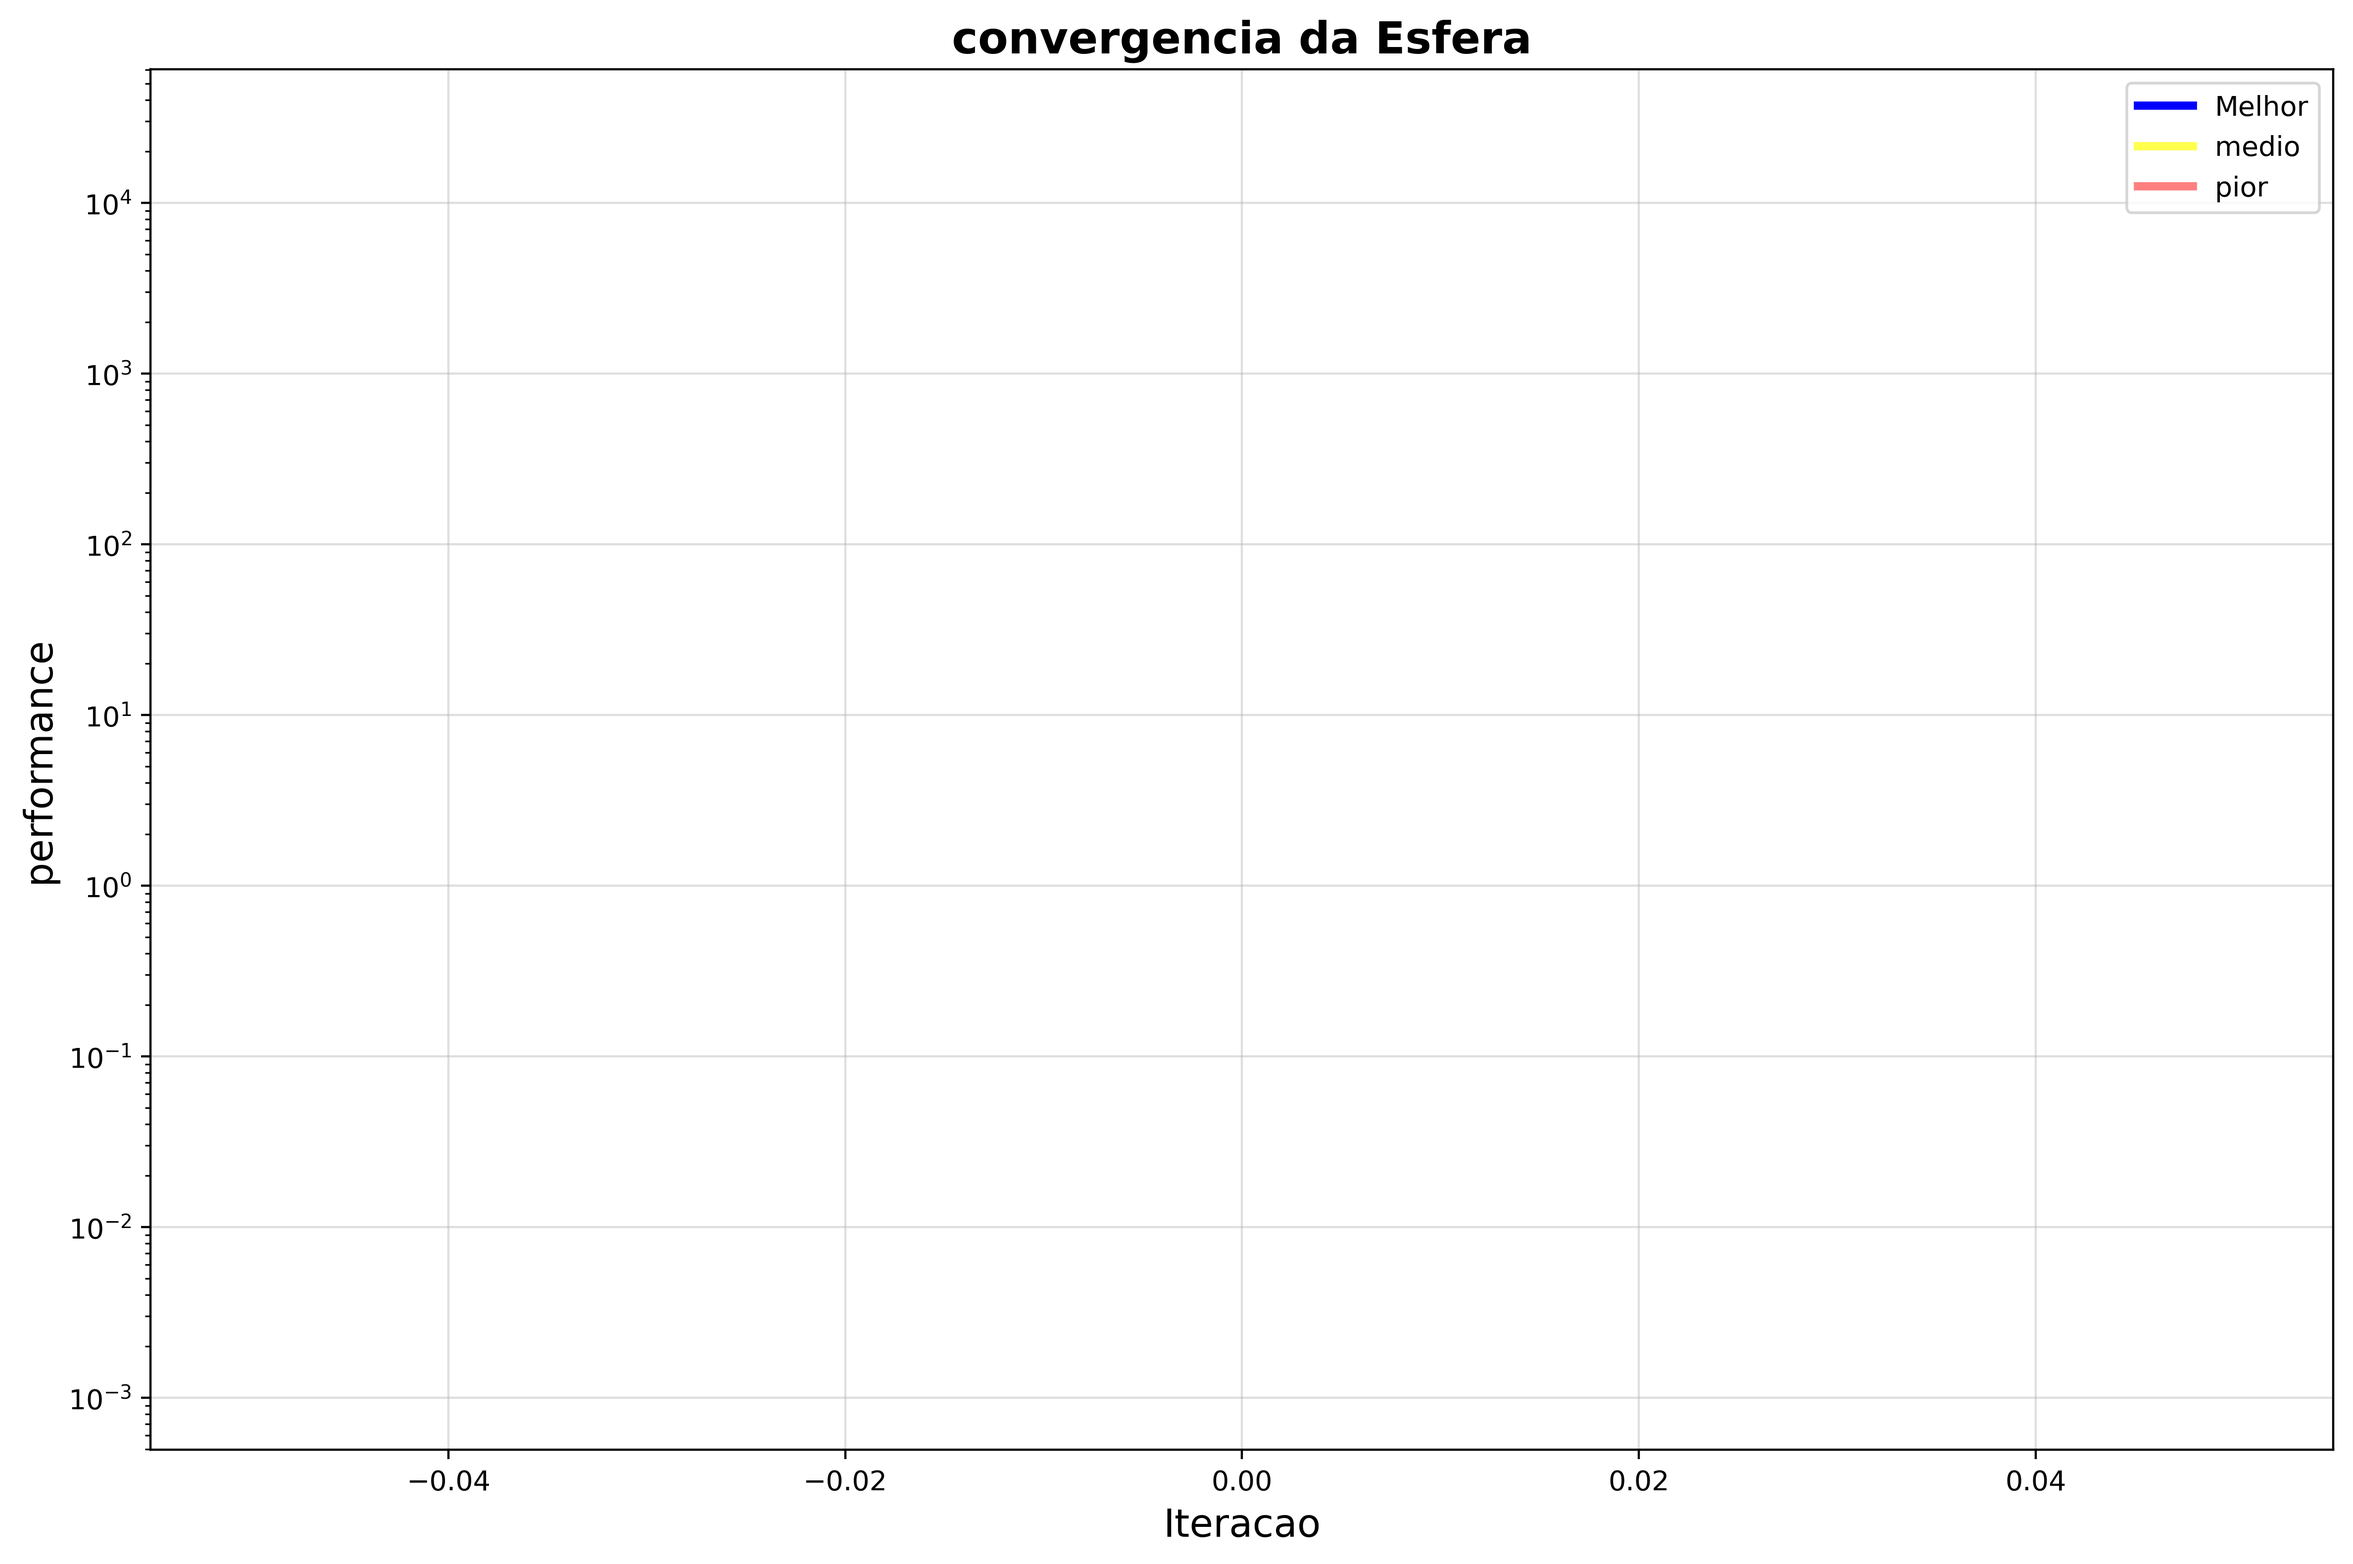
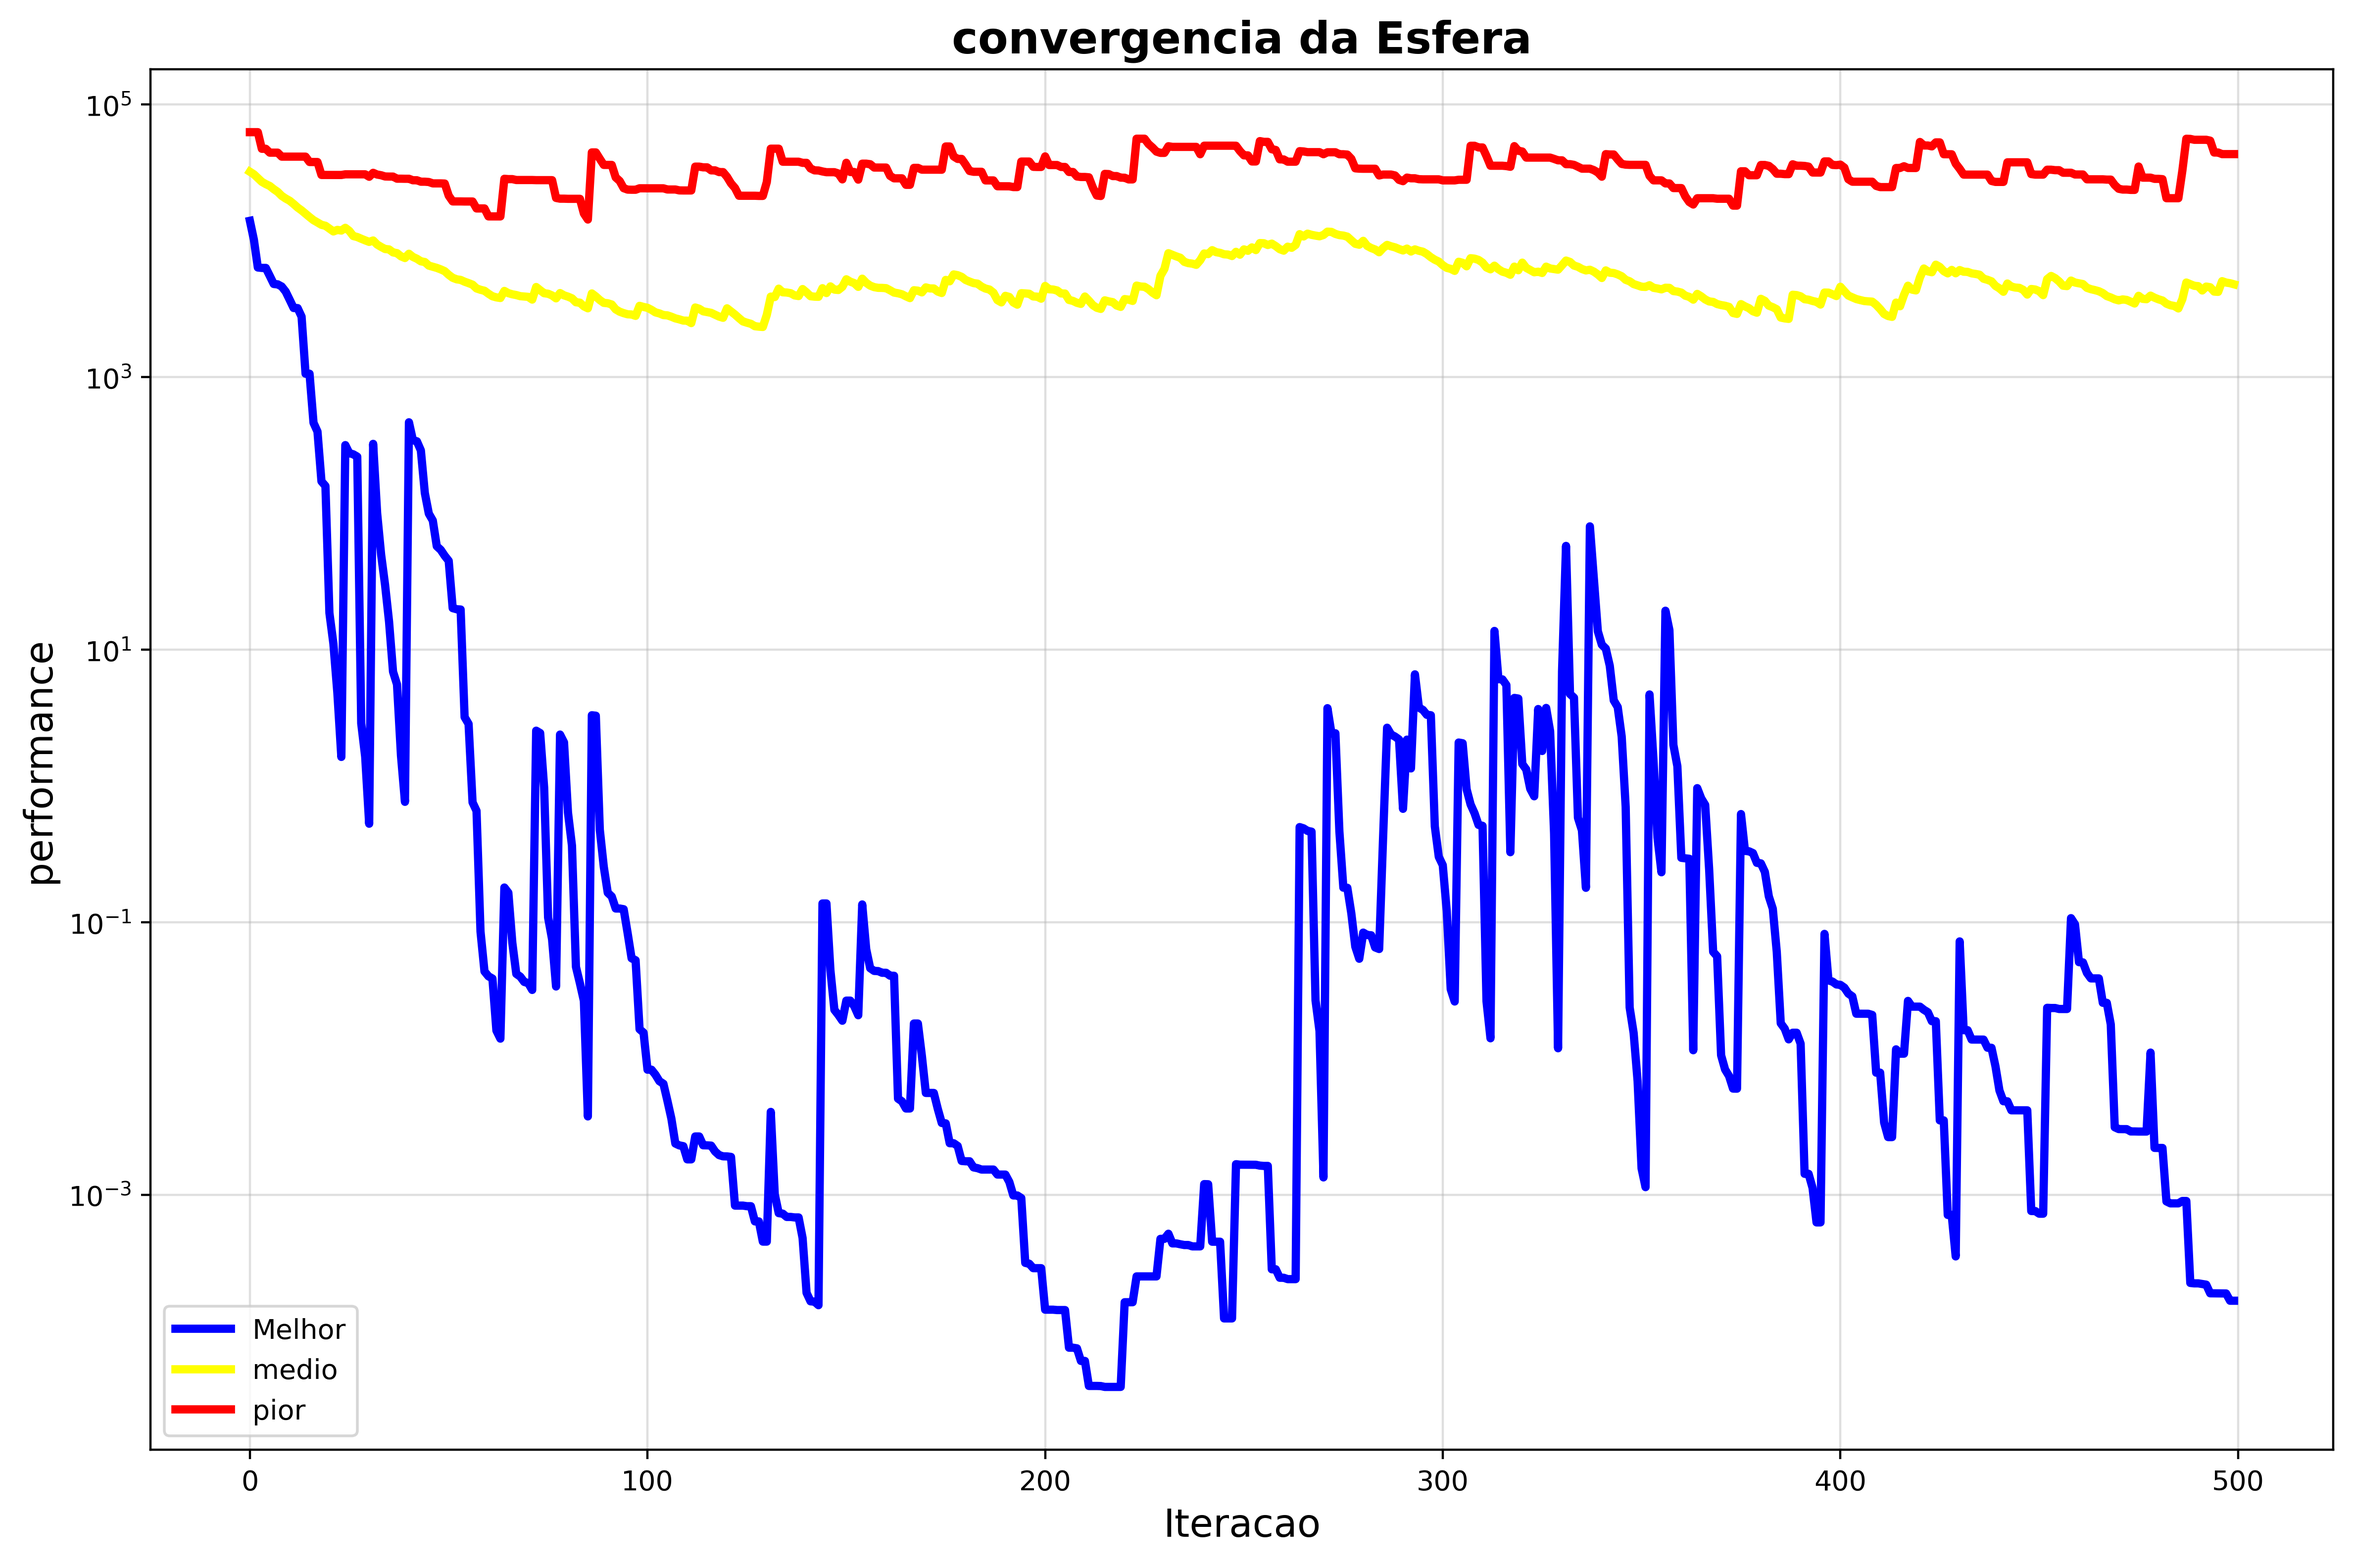
update graficos

diff --git a/src/ABC/controlador.py b/src/ABC/controlador.py
@@ -29,24 +29,24 @@ class AbcControlador:
 
         Melhor_Solucao=None
         for interacao in range(self.interacoes):
-           for i in range(self.operarias):
+            for i in range(self.operarias):
                self.operaria.explore(i)
 
-           valor = 1.0 / (1.0 +  self.valorEficiencia)
-           probabilidade = valor / np.sum(valor)
-           for i in range(self.observadoras):
+            valor = 1.0 / (1.0 +  self.valorEficiencia)
+            probabilidade = valor / np.sum(valor)
+            for i in range(self.observadoras):
                index = self.observadora.escolher_fontes(probabilidade)
                self.observadora.explore(index)
-           for i in range(self.operarias):
+            for i in range(self.operarias):
                if self.contadorInteacoesSemMelhoria[i] > self.Num_Falhas:
                    self.exploradora.atualiza(i)
            
-           Melhor_Solucao = np.argmin(self.valorEficiencia)
-           print(f"interacao {interacao} melhor opcao eh {Melhor_Solucao}")
+                   Melhor_Solucao = np.argmin(self.valorEficiencia)
+                   print(f"interacao {interacao} melhor opcao eh {Melhor_Solucao}")
 
-        self.historico['best_fitness'].append(float(np.min(self.valorEficiencia)))
-        self.historico['mean_fitness'].append(float(np.mean(self.valorEficiencia)))
-        self.historico['worst_fitness'].append(float(np.max(self.valorEficiencia)))
+            self.historico['best_fitness'].append(float(np.min(self.valorEficiencia)))
+            self.historico['mean_fitness'].append(float(np.mean(self.valorEficiencia)))
+            self.historico['worst_fitness'].append(float(np.max(self.valorEficiencia)))
 
         Melhor_Solucao = int(np.argmin(self.valorEficiencia))
 

diff --git a/src/utils/plot.py b/src/utils/plot.py
@@ -25,8 +25,8 @@ class plot:
         interacoes = list(range(len(historia['best_fitness'])))
         
         plt.plot(interacoes, historia['best_fitness'], label='Melhor', linewidth=3,color='blue')
-        plt.plot(interacoes, historia['mean_fitness'], label='medio', linewidth=3,color='yellow',alpha=0.7)
-        plt.plot(interacoes, historia['worst_fitness'], label='pior', linewidth=3,color='red',alpha=0.5)
+        plt.plot(interacoes, historia['mean_fitness'], label='medio', linewidth=3,color='yellow')
+        plt.plot(interacoes, historia['worst_fitness'], label='pior', linewidth=3,color='red')
         
 
         plt.xlabel('Iteracao', fontsize=14)
@@ -37,12 +37,7 @@ class plot:
         plt.yscale('log')  
         plt.tight_layout()
 
-        if filename:
-            plt.savefig(self.diretorioGraficos / filename, dpi=400, bbox_inches='tight')
-        if show:
-            plt.show()
-        else:
-            plt.close()
+        self._salvar(filename,show)
 
     def PlotConvergenciaMedia(self, historicos, nome_funcao='',filename=None,show=True):
         num_iter = len(historicos[0]['best_fitness'])

diff --git a/main.py b/main.py
@@ -97,6 +97,7 @@ def rodarExperimentos():
         
         for execucao in range(NUM_EXECUCOES):
             abc = AbcControlador(
+                eficiencia_fn = fn,
                 FunçoesParaSolução = fn,
                 num_operarias    = NUM_OPERARIAS,
                 num_observadoras = NUM_OBSERVADORAS,
@@ -145,3 +146,4 @@ def rodarExperimentos():
 if __name__ == '__main__':
     
     testeSimples()
+    # rodarExperimentos()
